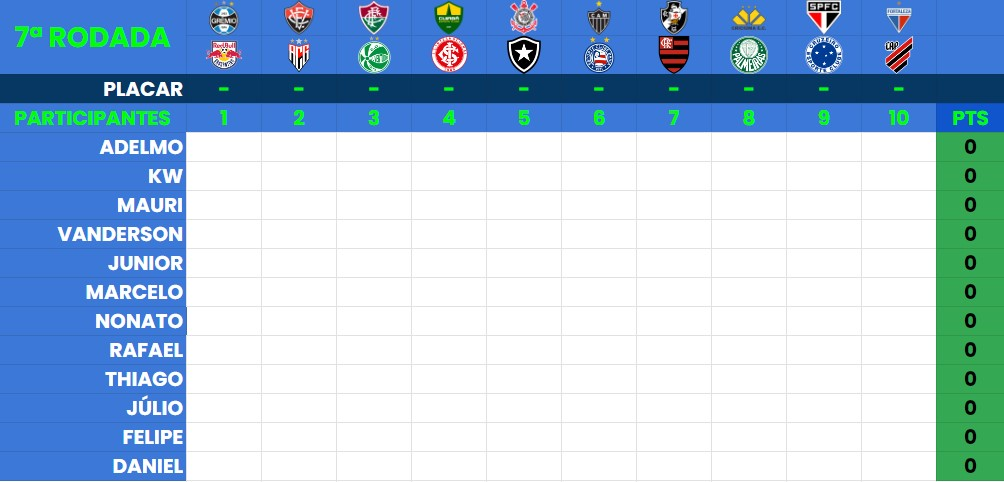
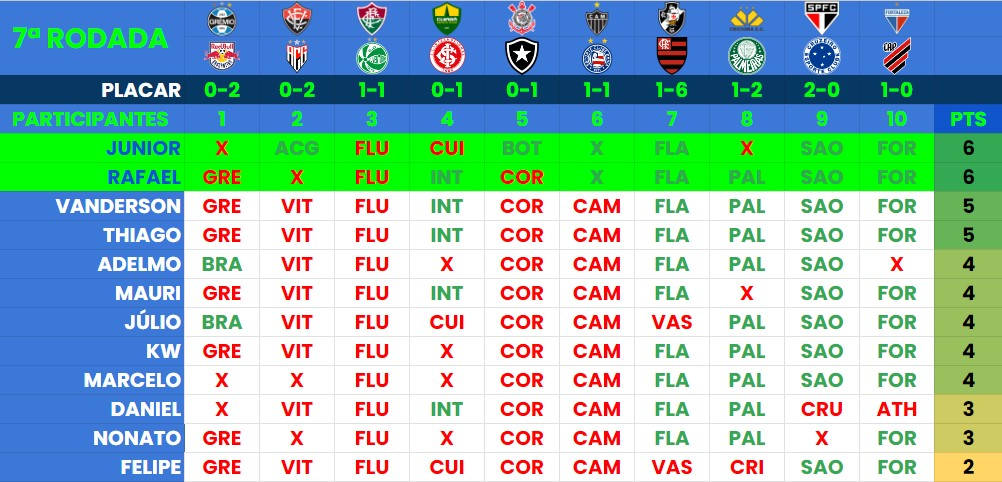
U

diff --git a/index.html b/index.html
@@ -48,15 +48,15 @@
     <section class="section" id="home">
       <div class="container grid">
         <div class="image">
-          <img src="./assets/r7.jpg" alt="Logo do Campeonato Brasileiro 2022" />
+          <img src="./assets/Round7.jpg" alt="Logo do Campeonato Brasileiro 2022" />
         </div>
         <div class="text">
-          <h2 class="title"><a href="./palpites_07.html">Mercado aberto para a 7ª Rodada</a>
+          <h2 class="title"><a href="./predictor.html">Júnior e Rafael são os melhores da Rodada 7</a>
           </h2>
           <p>
-            Bolão retornar após duas semana parado
+            Os dois fizeram 6 pontos cada
           </p>
-          <a class="button" href="./palpites_07.html">Palpitem aqui</a>
+          <a class="button" href="./predictor.html">Resumão da 7ª Rodada</a>
         </div>
       </div>
     </section>
@@ -177,7 +177,7 @@
           <div class="content">
             <h2 class="rank"><small>#</small>1</h2>
             <h4>Júnior</h4>
-            <p>28 Pontos</p>
+            <p>34 Pontos</p>
           </div>
         </div>
         <div class="list">
@@ -187,7 +187,7 @@
           <div class="content">
             <h2 class="rank"><small>#</small>2</h2>
             <h4>Adelmo</h4>
-            <p>28 Pontos</p>
+            <p>32 Pontos</p>
           </div>
         </div>
         <div class="list">
@@ -197,7 +197,7 @@
           <div class="content">
             <h2 class="rank"><small>#</small>3</h2>
             <h4>KW</h4>
-            <p>28 Pontos</p>
+            <p>32 Pontos</p>
           </div>
         </div>
         <div class="list">
@@ -207,6 +207,66 @@
           <div class="content">
             <h2 class="rank"><small>#</small>4</h2>
             <h4>Marcelo</h4>
+            <p>30 Pontos</p>
+          </div>
+        </div>
+        <div class="list">
+          <div class="imgBx">
+            <img src="./assets/fotos/palmeiras.png">
+          </div>
+          <div class="content">
+            <h2 class="rank"><small>#</small>5</h2>
+            <h4>Rafael</h4>
+            <p>30 Pontos</p>
+          </div>
+        </div>
+        <div class="list">
+          <div class="imgBx">
+            <img src="./assets/fotos/fortaleza.png">
+          </div>
+          <div class="content">
+            <h2 class="rank"><small>#</small>6</h2>
+            <h4>Júlio César</h4>
+            <p>29 Pontos</p>
+          </div>
+        </div>
+        <div class="list">
+          <div class="imgBx">
+            <img src="./assets/fotos/ceará.png">
+          </div>
+          <div class="content">
+            <h2 class="rank"><small>#</small>7</h2>
+            <h4>Thiago</h4>
+            <p>29 Pontos</p>
+          </div>
+        </div>
+        <div class="list">
+          <div class="imgBx">
+            <img src="./assets/fotos/fortaleza.png">
+          </div>
+          <div class="content">
+            <h2 class="rank"><small>#</small>8</h2>
+            <h4>Mauri</h4>
+            <p>28 Pontos</p>
+          </div>
+        </div>
+        <div class="list">
+          <div class="imgBx">
+            <img src="./assets/fotos/corinthians.png">
+          </div>
+          <div class="content">
+            <h2 class="rank"><small>#</small>9</h2>
+            <h4>Daniel</h4>
+            <p>27 Pontos</p>
+          </div>
+        </div>
+        <div class="list">
+          <div class="imgBx">
+            <img src="./assets/fotos/santos.png">
+          </div>
+          <div class="content">
+            <h2 class="rank"><small>#</small>10</h2>
+            <h4>Felipe</h4>
             <p>26 Pontos</p>
           </div>
         </div>
@@ -215,79 +275,19 @@
             <img src="./assets/fotos/fortaleza.png">
           </div>
           <div class="content">
-            <h2 class="rank"><small>#</small>5</h2>
-            <h4>Júlio César</h4>
-            <p>25 Pontos</p>
-          </div>
-        </div>
-        <div class="list">
-          <div class="imgBx">
-            <img src="./assets/fotos/corinthians.png">
-          </div>
-          <div class="content">
-            <h2 class="rank"><small>#</small>6</h2>
-            <h4>Daniel</h4>
-            <p>24 Pontos</p>
-          </div>
-        </div>
-        <div class="list">
-          <div class="imgBx">
-            <img src="./assets/fotos/santos.png">
-          </div>
-          <div class="content">
-            <h2 class="rank"><small>#</small>7</h2>
-            <h4>Felipe</h4>
-            <p>24 Pontos</p>
-          </div>
-        </div>
-        <div class="list">
-          <div class="imgBx">
-            <img src="./assets/fotos/palmeiras.png">
-          </div>
-          <div class="content">
-            <h2 class="rank"><small>#</small>8</h2>
-            <h4>Rafael</h4>
-            <p>24 Pontos</p>
-          </div>
-        </div>
-        <div class="list">
-          <div class="imgBx">
-            <img src="./assets/fotos/ceará.png">
-          </div>
-          <div class="content">
-            <h2 class="rank"><small>#</small>9</h2>
-            <h4>Thiago</h4>
-            <p>24 Pontos</p>
-          </div>
-        </div>
-        <div class="list">
-          <div class="imgBx">
-            <img src="./assets/fotos/fortaleza.png">
-          </div>
-          <div class="content">
-            <h2 class="rank"><small>#</small>10</h2>
-            <h4>Mauri</h4>
-            <p>24 Pontos</p>
-          </div>
-        </div>
-        <div class="list">
-          <div class="imgBx">
-            <img src="./assets/fotos/ceará.png">
-          </div>
-          <div class="content">
             <h2 class="rank"><small>#</small>11</h2>
-            <h4>Nonato</h4>
-            <p>22 Pontos</p>
+            <h4>Vanderson</h4>
+            <p>26 Pontos</p>
           </div>
         </div>
         <div class="list">
           <div class="imgBx">
-            <img src="./assets/fotos/fortaleza.png">
+            <img src="./assets/fotos/ceará.png">
           </div>
           <div class="content">
             <h2 class="rank"><small>#</small>12</h2>
-            <h4>Vanderson</h4>
-            <p>21 Pontos</p>
+            <h4>Nonato</h4>
+            <p>25 Pontos</p>
           </div>
         </div>
       </div>

diff --git a/predictor.html b/predictor.html
@@ -51,7 +51,9 @@
     <div class="container mt-3"><br><br><br>
       <h2 style="text-align: center; color: cornflowerblue; font-weight: bold;">Todas as Rodadas abaixo</h2>
     </div>
-    <h2 style="text-align: center; color: cornflowerblue; font-weight: bold;">5ª Rodada</h2>
+    <h2 style="text-align: center; color: cornflowerblue; font-weight: bold;">7ª Rodada</h2>
+    <img src="./assets/Round7.jpg" alt="">
+    <h2 style="text-align: center; color: cornflowerblue; font-weight: bold;">6ª Rodada</h2>
     <img src="./assets/Round6.jpg" alt="">
     <h2 style="text-align: center; color: cornflowerblue; font-weight: bold;">5ª Rodada</h2>
     <img src="./assets/Round5.jpg" alt="">
